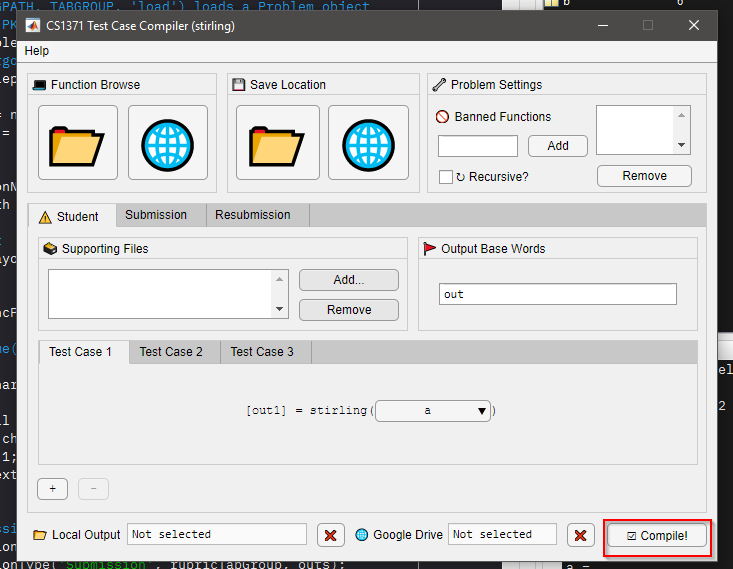
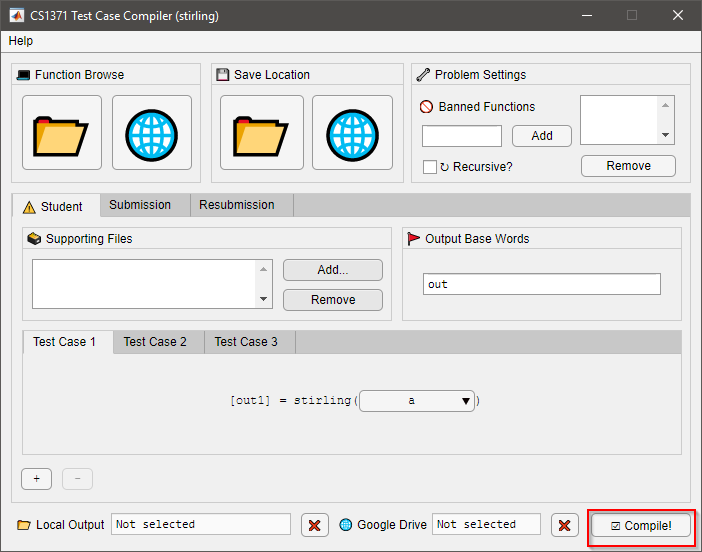
fix software page

diff --git a/software.md b/software.md
@@ -1,10 +1,10 @@
 # Software
 
-## Maritime route finding
+## Maritime route finding tool
 ![Apache
 Spark](https://img.shields.io/badge/Apache%20Spark-E25A1C?logo=apachespark&logoColor=fff)
 ![Python](https://img.shields.io/badge/python-3670A0?style=for-the-badge&logo=python&logoColor=ffdd54)
-![Matplotlib](https://custom-icon-badges.demolab.com/badge/Matplotlib-71D291?logo=matplotlib&logoColor=fff) ![Scikit-learn](https://img.shields.io/badge/-scikit--learn-%23F7931E?logo=scikit-learn&logoColor=white)]
+![Matplotlib](https://custom-icon-badges.demolab.com/badge/Matplotlib-71D291?logo=matplotlib&logoColor=fff) ![Scikit-learn](https://img.shields.io/badge/-scikit--learn-%23F7931E?logo=scikit-learn&logoColor=white)
 <figure class="image">
   <img src="./resources/hpc-diagram.png" alt="Genetic waypoints algorithm" style="-webkit-filter: drop-shadow(5px 5px 5px #222); filter: drop-shadow(5px 5px 5px #222);">
   <!-- <figcaption style="text-align: center; margin-block: 20px;">Genetic -->
@@ -20,7 +20,7 @@ Spark](https://img.shields.io/badge/Apache%20Spark-E25A1C?logo=apachespark&logoC
 ## Homework creation tool for MATLAB class teaching assistants
 [![GitHub](https://img.shields.io/badge/GitHub-%23121011.svg?logo=github&logoColor=white)](https://github.com/CS1371/homework-compiler) ![Java](https://img.shields.io/badge/Java-%23ED8B00.svg?logo=openjdk&logoColor=white)
 <figure class="image">
-  <img src="./resources/tcc.png" alt="Test case compiler">
+  <img src="./resources/tcc.png" alt="Test case compiler"style="-webkit-filter: drop-shadow(5px 5px 5px #222); filter: drop-shadow(5px 5px 5px #222);">
   <!-- <figcaption style="text-align: center; margin-block: 20px;">Test Case Compiler user interface</figcaption> -->
 </figure>
 
@@ -29,9 +29,11 @@ course CS 1371 (Computing for Engineers) at Georgia Tech. Its
 purpose is to package and create automated grading rubrics for coding
 homework problems.
 
-## Statistics of 4 and 5 dimensional resultant polytopes
+## Structure of 4 and 5 dimensional resultant polytopes
 ![SageMath](https://img.shields.io/badge/SageMath-1299FF?logo=sagemath&logoColor=white) [![GitHub](https://img.shields.io/badge/GitHub-%23121011.svg?logo=github&logoColor=white)](https://github.com/danielprofili/resultant-fvectors)
 <figure class="image">
-  <img src="./resources/resultant.png" alt="Resultant polytope">
+  <img src="./resources/resultant.png" alt="Resultant
+  polytope" style="-webkit-filter: drop-shadow(5px 5px 5px #222);
+  filter: drop-shadow(5px 5px 5px #222); display:block; margin: 0 auto; text-align:center;">
   <!-- <figcaption style="text-align: center; margin-block: 20px;">Test Case Compiler user interface</figcaption> -->
 </figure>